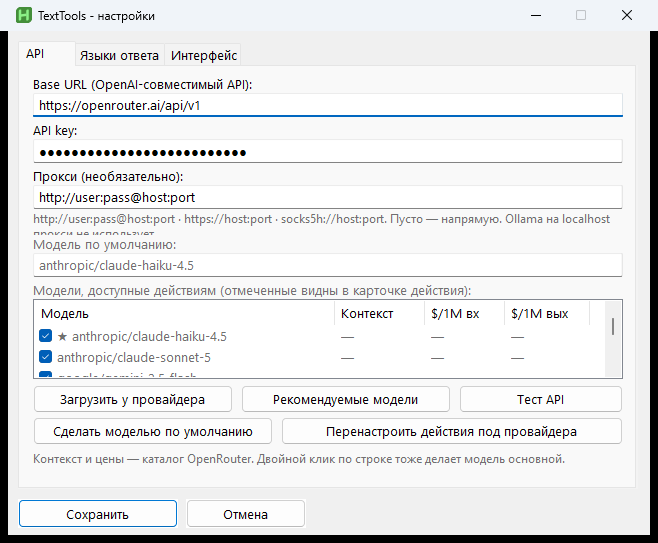
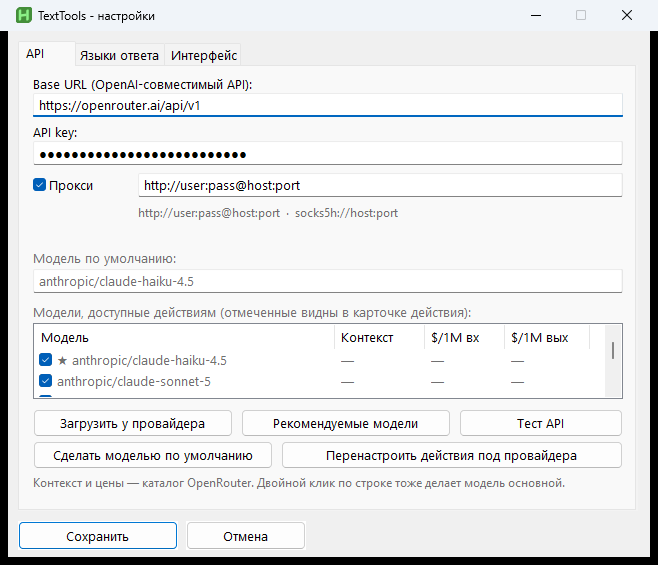
Publish v0.2.2 site: proxy checkbox and recaptured settings screenshots.

diff --git a/en/index.html b/en/index.html
@@ -45,9 +45,9 @@
             "name": "TextTools",
             "applicationCategory": "UtilitiesApplication",
             "operatingSystem": "Windows 10, Windows 11",
-            "softwareVersion": "0.2.1",
+            "softwareVersion": "0.2.2",
             "url": "https://belyaevad.github.io/TextTools/en/",
-            "downloadUrl": "https://github.com/BelyaevAD/TextTools/releases/tag/v0.2.1",
+            "downloadUrl": "https://github.com/BelyaevAD/TextTools/releases/tag/v0.2.2",
             "description": "AutoHotkey v2 script: select text in any Windows window, hotkey, OpenAI-compatible API actions.",
             "license": "https://github.com/BelyaevAD/TextTools/blob/main/LICENSE",
             "isAccessibleForFree": true,
@@ -114,7 +114,7 @@
             <h1>TextTools</h1>
             <p class="hero-lead">Select text in any app, hit the hotkey, pick what you want done. Proofreading, rewriting, summaries, tables, explaining code — that sort of thing. The result replaces the selection, or opens in its own window.</p>
             <div class="hero-actions">
-              <a class="button" href="https://github.com/BelyaevAD/TextTools/releases/tag/v0.2.1" target="_blank" rel="noopener noreferrer">Download v0.2.1</a>
+              <a class="button" href="https://github.com/BelyaevAD/TextTools/releases/tag/v0.2.2" target="_blank" rel="noopener noreferrer">Download v0.2.2</a>
               <a class="button secondary" href="https://github.com/BelyaevAD/TextTools/blob/main/docs/USER_GUIDE.md" target="_blank" rel="noopener noreferrer">Docs</a>
             </div>
             <div class="hero-meta" aria-label="Basics">
@@ -176,13 +176,13 @@
             </figure>
             <figure class="shot-card">
               <a href="../assets/screenshots/en/02-settings-api.png" target="_blank" rel="noopener">
-                <img src="../assets/screenshots/en/02-settings-api.png" width="658" height="515" alt="TextTools API settings" loading="lazy">
+                <img src="../assets/screenshots/en/02-settings-api.png" width="658" height="565" alt="TextTools API settings" loading="lazy">
               </a>
               <figcaption><strong>API</strong><span>Base URL, key, default model, model list</span></figcaption>
             </figure>
             <figure class="shot-card">
               <a href="../assets/screenshots/en/03-settings-ui.png" target="_blank" rel="noopener">
-                <img src="../assets/screenshots/en/03-settings-ui.png" width="658" height="515" alt="TextTools UI settings" loading="lazy">
+                <img src="../assets/screenshots/en/03-settings-ui.png" width="658" height="565" alt="TextTools UI settings" loading="lazy">
               </a>
               <figcaption><strong>UI</strong><span>Language and hotkeys for the menu and repeat-last</span></figcaption>
             </figure>
@@ -194,7 +194,7 @@
             </figure>
             <figure class="shot-card">
               <a href="../assets/screenshots/en/05-prompt-editor.png" target="_blank" rel="noopener">
-                <img src="../assets/screenshots/en/05-prompt-editor.png" width="663" height="548" alt="TextTools prompt editor" loading="lazy">
+                <img src="../assets/screenshots/en/05-prompt-editor.png" width="663" height="563" alt="TextTools prompt editor" loading="lazy">
               </a>
               <figcaption><strong>Prompt editor</strong><span>Task text, response language, model for that action</span></figcaption>
             </figure>

diff --git a/index.html b/index.html
@@ -45,9 +45,9 @@
             "name": "TextTools",
             "applicationCategory": "UtilitiesApplication",
             "operatingSystem": "Windows 10, Windows 11",
-            "softwareVersion": "0.2.1",
+            "softwareVersion": "0.2.2",
             "url": "https://belyaevad.github.io/TextTools/",
-            "downloadUrl": "https://github.com/BelyaevAD/TextTools/releases/tag/v0.2.1",
+            "downloadUrl": "https://github.com/BelyaevAD/TextTools/releases/tag/v0.2.2",
             "installUrl": "https://github.com/BelyaevAD/TextTools",
             "description": "Скрипт AutoHotkey v2: выделение текста в любом окне Windows, хоткей и действия через OpenAI-совместимый API.",
             "license": "https://github.com/BelyaevAD/TextTools/blob/main/LICENSE",
@@ -126,7 +126,7 @@
             <h1>TextTools</h1>
             <p class="hero-lead">Выдели текст в любом приложении, нажми хоткей — появится сетка действий. Вычитка, переписывание, краткое изложение, таблица, разбор кода и остальное. Результат либо встанет вместо выделения, либо откроется в отдельном окне.</p>
             <div class="hero-actions">
-              <a class="button" href="https://github.com/BelyaevAD/TextTools/releases/tag/v0.2.1" target="_blank" rel="noopener noreferrer">Скачать v0.2.1</a>
+              <a class="button" href="https://github.com/BelyaevAD/TextTools/releases/tag/v0.2.2" target="_blank" rel="noopener noreferrer">Скачать v0.2.2</a>
               <a class="button secondary" href="https://github.com/BelyaevAD/TextTools/blob/main/docs/USER_GUIDE.md" target="_blank" rel="noopener noreferrer">Документация</a>
             </div>
             <div class="hero-meta" aria-label="Кратко">
@@ -188,13 +188,13 @@
             </figure>
             <figure class="shot-card">
               <a href="assets/screenshots/ru/02-settings-api.png" target="_blank" rel="noopener">
-                <img src="assets/screenshots/ru/02-settings-api.png" width="658" height="515" alt="Настройки API TextTools" loading="lazy">
+                <img src="assets/screenshots/ru/02-settings-api.png" width="658" height="565" alt="Настройки API TextTools" loading="lazy">
               </a>
               <figcaption><strong>API</strong><span>Base URL, ключ, модель по умолчанию и список моделей</span></figcaption>
             </figure>
             <figure class="shot-card">
               <a href="assets/screenshots/ru/03-settings-ui.png" target="_blank" rel="noopener">
-                <img src="assets/screenshots/ru/03-settings-ui.png" width="658" height="515" alt="Настройки интерфейса TextTools" loading="lazy">
+                <img src="assets/screenshots/ru/03-settings-ui.png" width="658" height="565" alt="Настройки интерфейса TextTools" loading="lazy">
               </a>
               <figcaption><strong>Интерфейс</strong><span>Язык UI и хоткеи меню и повтора</span></figcaption>
             </figure>

diff --git a/USER_GUIDE.md b/USER_GUIDE.md
@@ -18,7 +18,7 @@ Install target: `%LOCALAPPDATA%\Scripts\TextTools\` via `install.ps1`.
 
 1. Install AutoHotkey v2
 2. Run `install.ps1`, or open `TextTools.ahk` directly
-3. Tray → **Settings** → API: Base URL, key, default model. Optional: HTTP/HTTPS/SOCKS **Proxy** (empty = direct; localhost Ollama skips it).
+3. Tray → **Settings** → API: Base URL, key, default model. Optional: tick **Proxy** and paste `http://user:pass@host:port` or `socks5h://host:port` (localhost Ollama skips it).
 4. Optional: **Load from provider** / **Recommended models**
 5. Select text anywhere → default hotkey `Ctrl+Alt+Space`
 
@@ -45,7 +45,7 @@ Any OpenAI-compatible `…/v1` base URL works. Examples:
 | OpenAI | `https://api.openai.com/v1` |
 | Ollama | `http://127.0.0.1:11434/v1` (any non-empty string as the “key”) |
 
-Optional `proxy` in Settings / `TextTools.ini` `[api]`: `http://user:pass@host:port`, `https://host:port`, `socks5://…`, `socks5h://…` (DNS through the proxy). `host:port` without a scheme is treated as HTTP. Loopback targets are not proxied.
+Optional `proxy` in Settings (checkbox **Proxy** / `proxy_on=1` in `TextTools.ini` `[api]`): `http://user:pass@host:port`, `https://host:port`, `socks5://…`, `socks5h://…`. `host:port` without a scheme is treated as HTTP. Loopback targets are not proxied. The URL is kept when the checkbox is off.
 
 Factory defaults in code: OpenRouter base URL, `anthropic/claude-haiku-4.5`, UI language `en`, hotkey `Ctrl+Alt+Space`.
 
